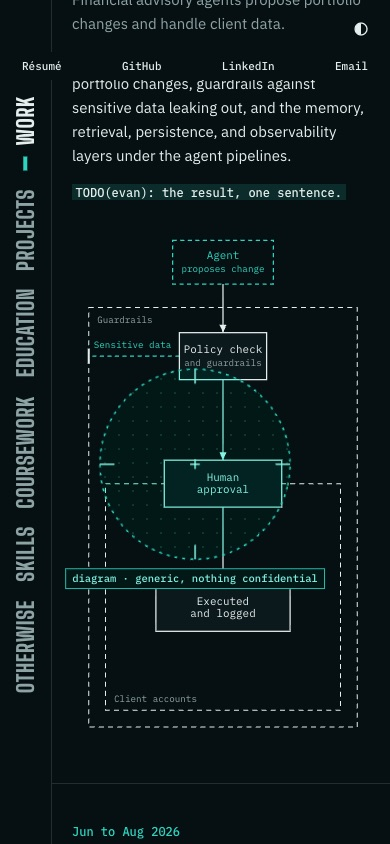
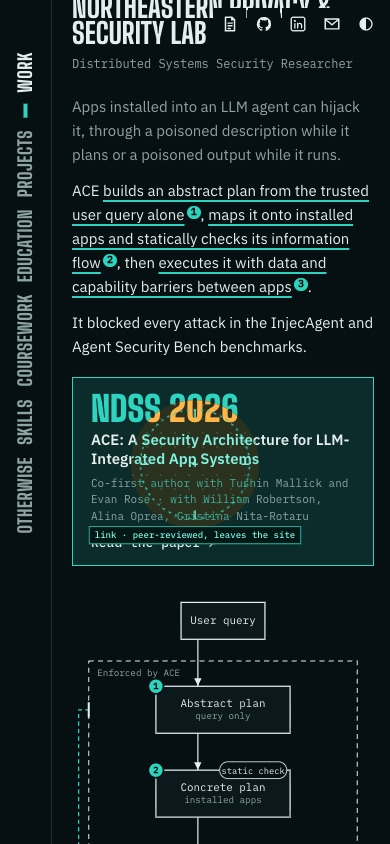
Phone: symbol links in the corner, index fits the screen

diff --git a/src/index.css b/src/index.css
@@ -275,9 +275,9 @@ a:hover { color: var(--acc); }
 }
 @media (max-width: 899px), (max-height: 639px) {
   .journey { grid-template-columns: 52px minmax(0, 1fr); }
-  .j-side { height: 100vh; padding: 96px 0 24px; gap: 0; align-items: center; border-right: 1px solid var(--rule); }
-  .index { flex-direction: column; gap: 18px; }
-  .index button { writing-mode: vertical-rl; transform: rotate(180deg); font-size: 1.4rem; letter-spacing: 0.03em; }
+  .j-side { height: 100vh; padding: 52px 0 16px; gap: 0; align-items: center; border-right: 1px solid var(--rule); }
+  .index { flex-direction: column; gap: 12px; }
+  .index button { writing-mode: vertical-rl; transform: rotate(180deg); font-size: 1.15rem; letter-spacing: 0.03em; }
   .index button[aria-selected='true']::before { width: 4px; height: 14px; margin: 0 0 8px; }
   .chapter, .chapter.has-dia, .chapter.no-dia, .chapter.solo { display: block; padding: 40px 16px 40px 20px; }
   .chapter:first-child { padding-top: 48px; }
@@ -361,6 +361,7 @@ a:hover { color: var(--acc); }
   font: 500 0.75rem var(--mono);
 }
 .corner-links a { text-decoration: none; }
+.corner-links .short { display: none; }
 .theme {
   display: grid;
   place-items: center;
@@ -507,15 +508,19 @@ a:hover { color: var(--acc); }
 
 @media (max-width: 640px) {
   .hero { grid-template-columns: 1fr; grid-template-rows: auto 1fr auto auto; padding-top: 18px; }
-  .hero-meta { padding-top: 96px; }
+  .hero-meta { padding-top: 52px; }
   .line { grid-area: 2 / 1; align-self: end; justify-self: start; text-align: left; margin: 0 0 28px; max-width: 16ch; }
   .fence { grid-area: 4 / 1; justify-self: start; }
   .fence { --name: 43vw; }
   .lane.r { display: none; }
   .facts { top: 150px; }
   .bullets div { grid-template-columns: 1fr; gap: 0; padding: 5px 0; }
-  .corner { left: 12px; flex-wrap: wrap; justify-content: flex-end; }
-  .corner-links { order: 3; flex: 1 0 100%; justify-content: space-between; gap: 8px; padding: 7px 10px; font-size: 0.6875rem; }
+  .corner { top: 8px; right: 8px; gap: 2px; }
+  .corner-links { gap: 2px; padding: 0; background: none; }
+  .corner-links a { display: grid; place-items: center; width: 32px; height: 32px; background: var(--bg); }
+  .corner-links .long { display: none; }
+  .corner-links .short { display: block; width: 18px; height: 18px; }
+  .theme { width: 32px; height: 32px; }
   .lens { --r: 64px; }
   .lens .lens-hud, .lens[data-flip] .lens-hud { left: 50%; right: auto; top: calc(var(--r) + 8px); transform: translateX(-50%); }
 }

diff --git a/src/components/Corner.tsx b/src/components/Corner.tsx
@@ -26,6 +26,33 @@ function ThemeIcon({ theme }: { theme: Theme }) {
   );
 }
 
+// Phone-sized symbols for the corner links; desktop shows the words.
+function LinkIcon({ label }: { label: string }) {
+  const shape: Record<string, React.ReactNode> = {
+    'Résumé': <path className="ic-line" d="M5 2.5h7l3 3v12H5zM12 2.5v3h3M7.5 9h5M7.5 12h5M7.5 15h3" />,
+    GitHub: (
+      <path
+        className="ic-fill"
+        transform="translate(2 2)"
+        d="M8 0C3.58 0 0 3.58 0 8c0 3.54 2.29 6.53 5.47 7.59.4.07.55-.17.55-.38 0-.19-.01-.82-.01-1.49-2.01.37-2.53-.49-2.69-.94-.09-.23-.48-.94-.82-1.13-.28-.15-.68-.52-.01-.53.63-.01 1.08.58 1.23.82.72 1.21 1.87.87 2.33.66.07-.52.28-.87.51-1.07-1.78-.2-3.64-.89-3.64-3.95 0-.87.31-1.59.82-2.15-.08-.2-.36-1.02.08-2.12 0 0 .67-.21 2.2.82.64-.18 1.32-.27 2-.27.68 0 1.36.09 2 .27 1.53-1.04 2.2-.82 2.2-.82.44 1.1.16 1.92.08 2.12.51.56.82 1.27.82 2.15 0 3.07-1.87 3.75-3.65 3.95.29.25.54.73.54 1.48 0 1.07-.01 1.93-.01 2.2 0 .21.15.46.55.38A8.013 8.013 0 0016 8c0-4.42-3.58-8-8-8z"
+      />
+    ),
+    LinkedIn: (
+      <>
+        <rect className="ic-line" x="2.5" y="2.5" width="15" height="15" rx="2" />
+        <circle className="ic-fill" cx="6.6" cy="6.6" r="1.1" />
+        <path className="ic-line" d="M6.6 9.2v5.3M9.6 14.5V9.2M9.6 11.8c0-1.6 1-2.6 2.3-2.6s2.2.9 2.2 2.6v2.7" />
+      </>
+    ),
+    Email: <path className="ic-line" d="M2.5 4.5h15v11h-15zM3 5.2l7 5.6 7-5.6" />,
+  };
+  return (
+    <svg className="short" viewBox="0 0 20 20" aria-hidden="true">
+      {shape[label]}
+    </svg>
+  );
+}
+
 /** Fixed top-right: the links and sun / moon. */
 export function Corner() {
   const { theme, setTheme } = useShared();
@@ -38,8 +65,10 @@ export function Corner() {
             href={l.href}
             data-prov={l.href.startsWith('/') ? 'trusted' : 'untrusted'}
             data-prov-label={l.href.startsWith('/') ? 'first-party file' : l.href.startsWith('mailto') ? 'opens your mail' : 'leaves the site'}
+            aria-label={l.label}
           >
-            {l.label}
+            <span className="long">{l.label}</span>
+            <LinkIcon label={l.label} />
           </a>
         ))}
       </nav>

diff --git a/BRIEF.md b/BRIEF.md
@@ -82,3 +82,4 @@ Diagrams are hand-built inline SVG with `role="img"`, `<title>`, `<desc>`. Flat,
 - 2026-10-27: The name's box uses one margin on every side, measured from the ink (each side's padding subtracts the typeface's own bearing). The photo matches LI's cap height and lines up with EVAN's right edge.
 - 2026-10-27: Sections scroll normally (one-at-a-time pinning removed); the index stays pinned beside them. Diagram highlights are scoped per entry.
 - 2026-10-27: Text and diagram are paired by numbers: each linked phrase carries a small teal number and the matching diagram node shows the same number, so the link reads without hovering. Hovering either one highlights both. Lens radius is 90px on desktop and 64px on phones.
+- 2026-10-27: On phones the corner links are symbols (page, GitHub mark, LinkedIn square, envelope) with full names for screen readers, so no full-width bar covers the content; the vertical index is sized to fit a small phone.
